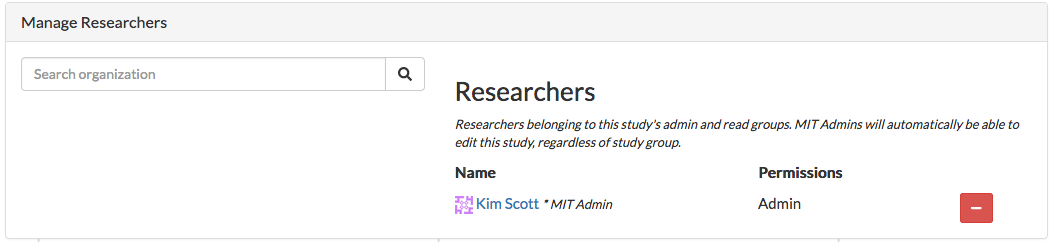
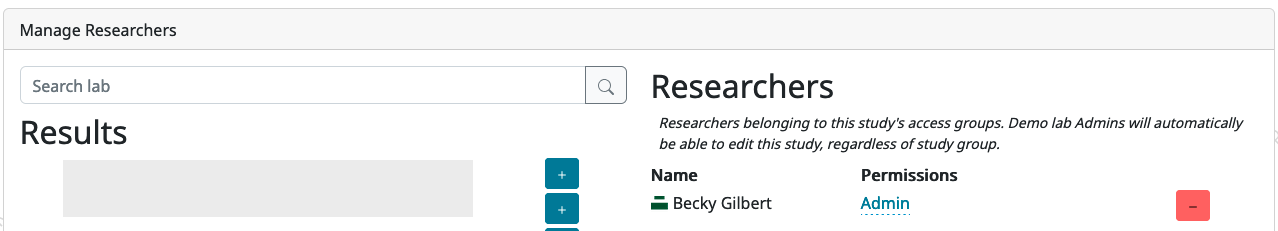
update text and screenshots for managing data intro and researcher permissions

diff --git a/docs/source/tutorial-manage-data.rst b/docs/source/tutorial-manage-data.rst
@@ -4,9 +4,16 @@
 4. Managing study data
 #############################################
 
-Now that you have a good handle on how to set up the study protocol you want, it's time to look at how to manage your study: controlling who has access to what, starting and stopping data collection, reviewing and downloading your data, and contacting your participants. 
+Now that you have a good handle on how to set up the study protocol you want, it's time to look at how to manage your study and data:
 
-A note for external studies: Much of this information applies to your studies as well! External studies do not have consent management or study data for you to download, but you do have demographic snapshot data for each participant/session. Managing data access, downloading, and communicating with participants works the same across all study types. 
+* Controlling other researchers' access to your study and data
+* Starting and stopping data collection
+* Reviewing and downloading your data
+* Contacting your participants
+
+.. admonition:: Who should do this section?
+    
+    Everyone! This information applies to both Lookit and jsPsych internal studies, and much of it applies to external studies as well. External studies do not have consent management or study data, but they do have demographic snapshot data for each participant/session. Managing data access, downloading, and communicating with participants works the same across all study types.
 
 Managing access to your study: add a collaborator
 -------------------------------------------------
@@ -20,17 +27,22 @@ Try it out! Add another person to your tutorial study. On the study page in the 
 .. image:: _static/img/tutorial/manage_researchers.png
     :alt: Manage researchers section
     
-In the search box, type in the first few letters of someone you want to add, and press Enter. Click the green "+" button to add them to your study:
+(In the screenshot above, some researcher email addresses have been obscured for privacy.)
+
+In the search box, type in the name or email of a researcher you want to add, and press Enter to search. Click the "+" button next to the researcher's name/email to add them to your study:
 
 .. image:: _static/img/tutorial/add_researcher.png
     :alt: Adding a researcher
     
-They will show up on the right with "Preview" permissions initially:
+After the researcher has been added to your study, they will show up on the right with "Preview" permissions initially:
 
 .. image:: _static/img/tutorial/new_researcher_with_read_access.png
     :alt: Researcher shows up on right with read access
 
-This means they can see your study in the Experimenter interface, but not see any participant data or make any changes. You can click on "preview" for a drop-down menu to give them different permissions if you want. (:ref:`See this section<study_permissions>` for much more detailed information about the different roles available. ) Or you can click the red "-" button to remove them again.
+This means they can see your study in the Experimenter interface, but they cannot see any participant data or make any changes. You can click on "Preview" for a drop-down menu to give them different permissions if you want. See the :ref:`Study Permissions section<study_permissions>` for much more detailed information about the different roles available. Or you can click the red "-" button to remove them again.
+
+.. image:: _static/img/tutorial/change_researcher_study_permissions.png
+    :alt: Use the drop-down menu to change the researcher's study permissions
 
 Great! Now you know how to give someone else access to your study so you can collaborate.
 
